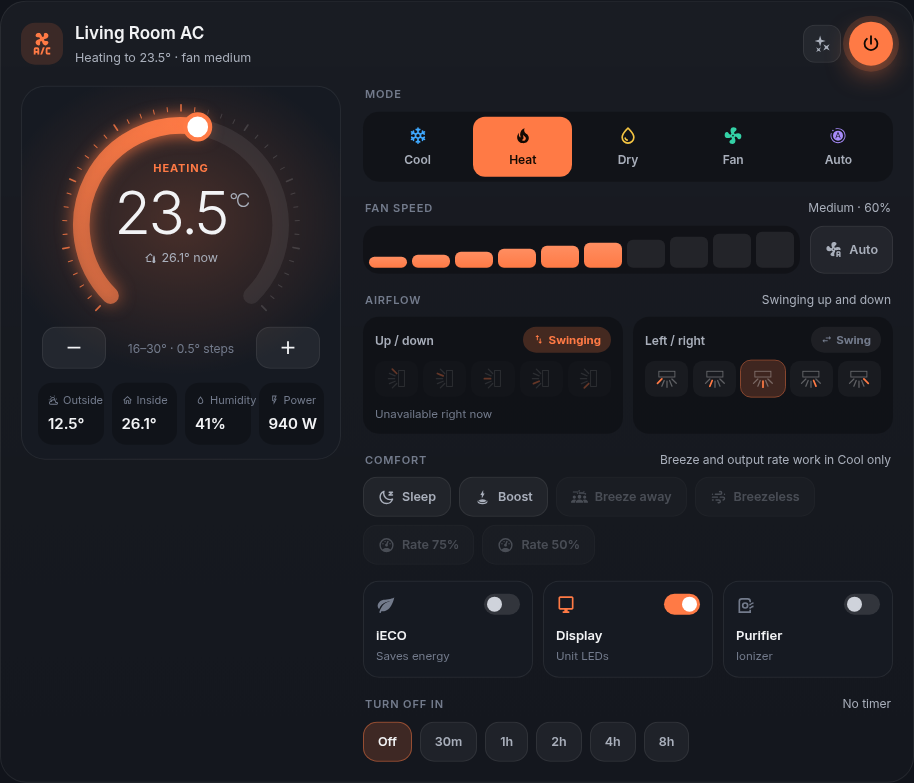
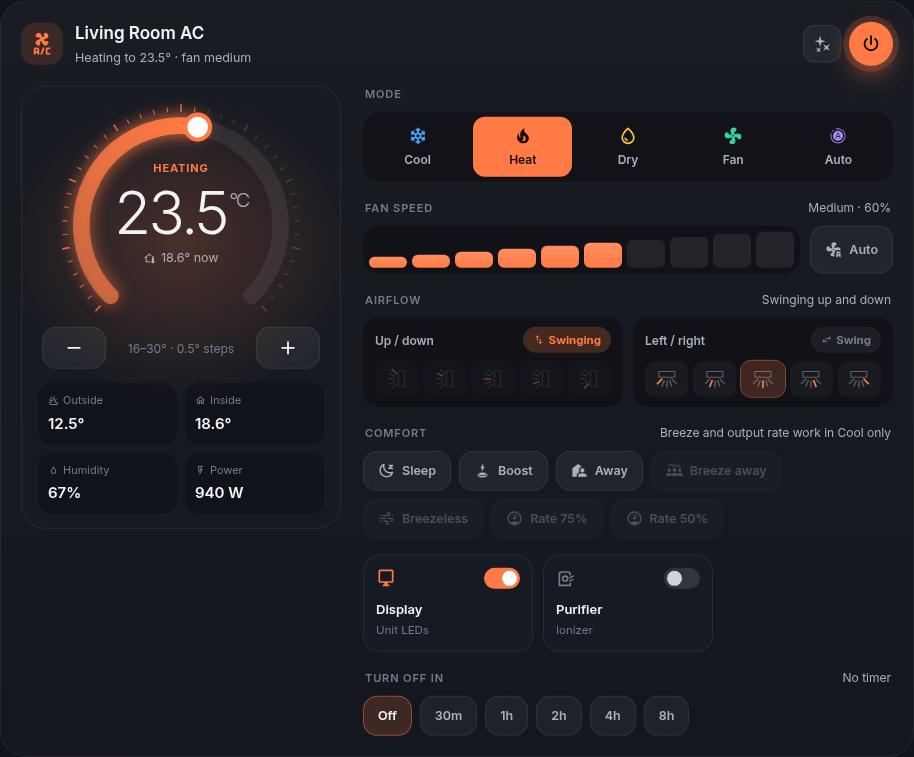
v3.1.0: open a reading's history when it is clicked; 2x2 tiles

diff --git a/midea-ac-card.js b/midea-ac-card.js
@@ -1,5 +1,5 @@
 // =============================================================================
-// Midea AC Control Card  v3.0.1
+// Midea AC Control Card  v3.1.0
 // Dark "Home" design: dial, mode, fan, airflow and comfort controls on one page.
 //
 // Install via HACS (search "Midea AC Card") or manually:
@@ -17,6 +17,7 @@
 //
 // Override any individual entity if its name differs (or set to null to disable):
 //   indoor_temp:   sensor.living_room_ac_indoor_temperature   # auto-derived
+//   indoor_humidity: sensor.living_room_ac_indoor_humidity    # auto-derived
 //   outdoor_temp:  sensor.living_room_ac_outdoor_temperature  # auto-derived
 //   power:         sensor.living_room_ac_power                # auto-derived
 //   fan_speed:     number.living_room_ac_fan_speed            # auto-derived
@@ -302,6 +303,7 @@ function deriveEntities(cfg) {
 
   const defaults = {
     indoor_temp:       `sensor.${n}_indoor_temperature`,
+    indoor_humidity:   `sensor.${n}_indoor_humidity`,
     outdoor_temp:      `sensor.${n}_outdoor_temperature`,
     power:             `sensor.${n}_power`,
     fan_speed:         `number.${n}_fan_speed`,
@@ -365,7 +367,7 @@ function deriveEntities(cfg) {
 }
 
 
-const VERSION = '3.0.1';
+const VERSION = '3.1.0';
 
 // Dial geometry (viewBox 260×206): a 270° arc open at the bottom.
 const DIAL = { CX: 130, CY: 118, R: 96, START: 225, SWEEP: 270, W: 260, H: 206, TICKS: 40 };
@@ -412,6 +414,8 @@ function loadFont() {
 
 const fmtT = v => (Math.round(v * 10) / 10).toFixed(1);
 const ico = (name) => `<ha-icon icon="${name}"></ha-icon>`;
+// Attributes that make a read-only value open HA's more-info dialog (history) for its entity.
+const mi = (id) => id ? ` data-more-info="${id}" role="button" tabindex="0"` : '';
 
 // ── Card class ────────────────────────────────────────────────────────────────
 class AcCard extends HTMLElement {
@@ -465,6 +469,7 @@ class AcCard extends HTMLElement {
     if (!this.shadowRoot) this.attachShadow({ mode: 'open' });
     this.shadowRoot.addEventListener('click', e => this._onClick(e));
     this.shadowRoot.addEventListener('input', e => this._onInput(e));
+    this.shadowRoot.addEventListener('keydown', e => this._onKeyDown(e));
     // <details> toggle does not bubble; capture it to remember open sections.
     this.shadowRoot.addEventListener('toggle', e => {
       const k = e.target?.dataset?.k;
@@ -556,9 +561,20 @@ ha-icon { --mdc-icon-size: 1em; display: inline-flex; }
 .step:hover { background: rgba(255,255,255,.1); }
 .steps span { font-size: 12px; color: var(--text3); }
 .stats { display: grid; grid-template-columns: repeat(auto-fit, minmax(0, 1fr)); gap: 8px; margin-top: 14px; }
+.stats.n4 { grid-template-columns: repeat(2, minmax(0, 1fr)); }
 .stat { border-radius: 14px; background: rgba(0,0,0,.25); padding: 9px 10px; min-width: 0; }
 .stat span { font-size: 11px; color: var(--text3); display: flex; gap: 4px; align-items: center; white-space: nowrap; }
 .stat b { display: block; font-size: 15px; font-weight: 600; margin-top: 2px; white-space: nowrap; }
+
+/* read-only values that open the entity's history (more-info) */
+[data-more-info] { cursor: pointer; transition: background .15s, color .15s; }
+[data-more-info]:focus { outline: none; }
+[data-more-info]:focus-visible { outline: 2px solid color-mix(in srgb, var(--mc) 60%, transparent); outline-offset: 1px; }
+[data-more-info]:hover, [data-more-info]:focus-visible { background: rgba(255,255,255,.06); color: var(--text); border-radius: 8px; }
+.stat[data-more-info]:hover, .stat[data-more-info]:focus-visible { background: rgba(255,255,255,.05); border-radius: 14px; }
+.dial .now[data-more-info] { pointer-events: auto; padding: 0 6px; margin-left: -6px; margin-right: -6px; }
+.note [data-more-info] { padding: 0 3px; margin: 0 -3px; }
+.offhero .big[data-more-info]:hover, .offhero .big[data-more-info]:focus-visible { border-radius: 14px; }
 
 /* segmented mode control */
 .seg { display: grid; grid-auto-flow: column; grid-auto-columns: 1fr; gap: 6px; background: rgba(0,0,0,.28); padding: 5px; border-radius: 16px; }
@@ -714,13 +730,19 @@ details[open] summary .chev { transform: rotate(180deg); }
     const pUnit = pEnt?.attributes?.unit_of_measurement || 'W';
     const pow = pNum == null ? null : `${/^kw$/i.test(pUnit) ? pNum.toFixed(1) : Math.round(pNum)} ${pUnit}`;
     const cells = [
-      outT && ['mdi:weather-partly-cloudy', 'Outside', outT],
-      withInside && cur && ['mdi:home-outline', 'Inside', cur],
-      hum && ['mdi:water-outline', 'Humidity', hum],
-      pow && ['mdi:flash-outline', 'Power', pow],
+      outT && ['mdi:weather-partly-cloudy', 'Outside', outT, out.entity_id],
+      withInside && cur && ['mdi:home-outline', 'Inside', cur, this._insideId()],
+      hum && ['mdi:water-outline', 'Humidity', hum, this._entity('indoor_humidity')?.entity_id || cfg.entity],
+      pow && ['mdi:flash-outline', 'Power', pow, pEnt.entity_id],
     ].filter(Boolean);
     if (!cells.length) return '';
-    return `<div class="stats">${cells.map(([i, l, v]) => `<div class="stat"><span>${ico(i)}${l}</span><b>${v}</b></div>`).join('')}</div>`;
+    return `<div class="stats${cells.length === 4 ? ' n4' : ''}">${cells.map(([i, l, v, id]) => `<div class="stat"${mi(id)}><span>${ico(i)}${l}</span><b>${v}</b></div>`).join('')}</div>`;
+  }
+
+  // The room temperature and humidity shown come from the climate entity; their
+  // history lives on the indoor sensors when those exist.
+  _insideId() {
+    return this._entity('indoor_temp')?.entity_id || this._config.entity;
   }
 
   _dialSvg(temp, minT, maxT, mc) {
@@ -762,7 +784,7 @@ details[open] summary .chev { transform: rotate(180deg); }
         <div class="ctr">
           <div class="act">${act}</div>
           <div class="set"><span id="arc-temp-val">${fmtT(target)}</span><sup>°C</sup></div>
-          ${cur ? `<div class="now">${ico('mdi:home-thermometer-outline')} ${cur}</div>` : ''}
+          ${cur ? `<div class="now"${mi(this._insideId())}>${ico('mdi:home-thermometer-outline')} ${cur}</div>` : ''}
         </div>
       </div>
       <div class="steps">
@@ -799,7 +821,7 @@ details[open] summary .chev { transform: rotate(180deg); }
     <div class="left">
       <div class="offhero">
         <div class="label">Room now</div>
-        <div class="big">${cur}<sup>°C</sup></div>
+        <div class="big"${attrs.current_temperature != null ? mi(this._insideId()) : ''}>${cur}<sup>°C</sup></div>
         ${target ? `<p>${target}</p>` : ''}
         ${this._statsHtml(attrs, false)}
       </div>
@@ -834,6 +856,10 @@ details[open] summary .chev { transform: rotate(180deg); }
     const i = named.indexOf(attrs.fan_mode);
     return i < 0 ? 0 : Math.round((i + 1) / named.length * 100);
   }
+  _fanSpeedLive() {
+    const fs = this._entity('fan_speed');
+    return !!fs && !isUnavail(fs) && this._hass.states[this._config.entity]?.attributes?.fan_mode !== 'auto';
+  }
   _fanLabel(attrs, pct) {
     if (attrs.fan_mode === 'auto') return 'Auto';
     const fs = this._entity('fan_speed');
@@ -849,7 +875,7 @@ details[open] summary .chev { transform: rotate(180deg); }
     const auto = attrs.fan_mode === 'auto';
     const pct = auto ? 0 : this._fanPct(attrs);
     const hasAuto = (attrs.fan_modes || []).includes('auto');
-    return `<div class="blk"><div class="bh"><span class="label">Fan speed</span><small id="fan-lbl">${this._fanLabel(attrs, pct)}${auto ? ' · tap the bars to set a speed' : ''}</small></div>
+    return `<div class="blk"><div class="bh"><span class="label">Fan speed</span><small id="fan-lbl"${this._fanSpeedLive() ? mi(this._config.fan_speed) : ''}>${this._fanLabel(attrs, pct)}${auto ? ' · tap the bars to set a speed' : ''}</small></div>
       <div class="fan">
         <div class="bars${auto ? ' auto' : ''}" data-drag>${this._barsHtml(pct)}</div>
         ${hasAuto ? `<button class="chipbtn${auto ? ' on' : ''}" data-action="toggle-fan-auto">${ico('mdi:fan-auto')}Auto</button>` : ''}
@@ -892,7 +918,8 @@ details[open] summary .chev { transform: rotate(180deg); }
       : sm === 'horizontal' ? 'Swinging left and right'
       : 'Tap a position again to release it';
     const hNow = this._fmtSensor('louvers_h_angle'), vNow = this._fmtSensor('louvers_v_angle');
-    const actual = (hNow || vNow) ? `<p class="note">Louvers now:${vNow ? ` ↕ ${vNow}` : ''}${hNow ? ` ↔ ${hNow}` : ''}</p>` : '';
+    const cfg = this._config;
+    const actual = (hNow || vNow) ? `<p class="note">Louvers now:${vNow ? ` <span${mi(cfg.louvers_v_angle)}>↕ ${vNow}</span>` : ''}${hNow ? ` <span${mi(cfg.louvers_h_angle)}>↔ ${hNow}</span>` : ''}</p>` : '';
     return `<div class="blk"><div class="bh"><span class="label">Airflow</span><small>${desc}</small></div>
       <div class="air">${group('v')}${group('h')}</div>${actual}</div>`;
   }
@@ -968,7 +995,7 @@ details[open] summary .chev { transform: rotate(180deg); }
     }).join('');
     const label = acOff ? 'Turn on in' : 'Turn off in';
     const now = cur > 0 ? `${acOff ? 'Turns on' : 'Turns off'} in ${fmtDuration(cur)}` : 'No timer';
-    return `<div class="blk"><div class="bh"><span class="label">${label}</span><small>${now}</small></div><div class="chips">${chips}</div></div>`;
+    return `<div class="blk"><div class="bh"><span class="label">${label}</span><small${cur > 0 ? mi(ent.entity_id) : ''}>${now}</small></div><div class="chips">${chips}</div></div>`;
   }
 
   _extrasHtml() {
@@ -985,7 +1012,7 @@ details[open] summary .chev { transform: rotate(180deg); }
     if (sp) {
       const un = isUnavail(sp), faOn = this._entity('fresh_air')?.state === 'on';
       const v = un ? 50 : Math.min(Math.round(+sp.state), 100);
-      parts.push(`<label class="range">Fresh air speed <input type="range" id="fresh-air-slider" min="${sp.attributes?.min ?? 1}" max="${sp.attributes?.max ?? 100}" value="${v}" ${un || !faOn ? 'disabled' : ''}><b id="fresh-air-val">${un ? '—' : v + '%'}</b></label>`);
+      parts.push(`<label class="range">Fresh air speed <input type="range" id="fresh-air-slider" min="${sp.attributes?.min ?? 1}" max="${sp.attributes?.max ?? 100}" value="${v}" ${un || !faOn ? 'disabled' : ''}><b id="fresh-air-val"${mi(sp.entity_id)}>${un ? '—' : v + '%'}</b></label>`);
     }
     const cm = this._entity('cosy_sleep_mode');
     if (cm) {
@@ -1007,7 +1034,7 @@ details[open] summary .chev { transform: rotate(180deg); }
     const summary = [this._fmtSensor('outdoor_unit_power'), this._fmtSensor('compressor_frequency')].filter(Boolean).join(' · ');
     const secs = DIAG_SECTIONS.map(sec => {
       const rows = sec.rows.filter(r => this._present(r.key))
-        .map(r => `<div><span>${r.name}</span><b>${this._fmtSensor(r.key) ?? '—'}</b></div>`).join('');
+        .map(r => `<div${mi(this._config[r.key])}><span>${r.name}</span><b>${this._fmtSensor(r.key) ?? '—'}</b></div>`).join('');
       return rows ? `<div class="label" style="margin:4px 0 0 2px">${sec.title}</div><div class="diag">${rows}</div>` : '';
     }).join('');
     return `<details data-k="diag" ${this._open.has('diag') ? 'open' : ''}>
@@ -1148,8 +1175,14 @@ details[open] summary .chev { transform: rotate(180deg); }
 
   // ── Click handling ────────────────────────────────────────────────────────
   _onClick(e) {
-    const el = e.composedPath().find(n => n instanceof Element && n.dataset?.action);
-    if (!el || el.disabled) return;
+    const path = e.composedPath();
+    const el = path.find(n => n instanceof Element && n.dataset?.action);
+    if (!el) {
+      const info = path.find(n => n instanceof Element && n.dataset?.moreInfo);
+      if (info) { e.preventDefault(); this._moreInfo(info.dataset.moreInfo); }
+      return;
+    }
+    if (el.disabled) return;
     const action = el.dataset.action, val = el.dataset.val, eid = el.dataset.entity;
     const { _hass: hass, _config: cfg } = this;
     const climate = hass.states[cfg.entity];
@@ -1252,6 +1285,18 @@ details[open] summary .chev { transform: rotate(180deg); }
     this._fanTimer = setTimeout(() => {
       this._call('number', 'set_value', { entity_id: this._config.fresh_air_fan_speed, value: +v });
     }, 400);
+  }
+
+  _onKeyDown(e) {
+    if (e.key !== 'Enter' && e.key !== ' ') return;
+    const id = e.target?.dataset?.moreInfo;
+    if (!id) return;
+    e.preventDefault();
+    this._moreInfo(id);
+  }
+
+  _moreInfo(entityId) {
+    this.dispatchEvent(new CustomEvent('hass-more-info', { bubbles: true, composed: true, detail: { entityId } }));
   }
 
   _call(domain, service, data) {

diff --git a/README.md b/README.md
@@ -38,12 +38,16 @@ Key features at a glance:
 ## Credits
 
 Author: [gil](https://github.com/condegil) — 2026  
-Version: 3.0.0
+Version: 3.1.0
 
 ## Changelog
 
 <details>
 <summary>Versions</summary>
+
+**3.1.0**
+- Readings open their history: tap (or Enter/Space) any read-only value to open Home Assistant's more-info dialog for the entity behind it. Covers the outside / inside / humidity / power tiles (the Humidity tile uses the new auto-derived `indoor_humidity` sensor when it exists), the room temperature under the dial and on the off screen, the fan-speed %, the actual louver angles, the running timer, the fresh-air speed and every Diagnostics row. Controls keep their normal behaviour.
+- With all four tiles (outside, inside, humidity, power) they sit in a 2 × 2 grid instead of one tight row.
 
 **3.0.1**
 - Fixed: on a narrow card the header buttons no longer get squashed. The filter and tank alerts shrink to their icons so the name keeps its room.
@@ -110,6 +114,7 @@ All companion entity IDs are auto-derived from the climate entity name (see [Aut
 | --------------- | -------- | ------- | --------------------------------------------------------------- |
 | `entity`        | ✅       | —       | Main `climate.*` entity                                         |
 | `indoor_temp`   | ☑        | auto    | `sensor.*` for indoor temperature                               |
+| `indoor_humidity` | ☑      | auto    | `sensor.*` for indoor humidity (history for the Humidity tile)  |
 | `outdoor_temp`  | ☑        | auto    | `sensor.*` for outdoor temperature                              |
 | `fan_speed`     | ☑        | auto    | `number.*` for fan speed percentage (0–100 %)                   |
 | `display`       | ☑        | auto    | `switch.*` for LED display on/off                               |
@@ -137,6 +142,7 @@ entity: climate.living_room_ac
 type: custom:midea-ac-card
 entity: climate.living_room_ac
 indoor_temp: sensor.living_room_ac_indoor_temperature
+indoor_humidity: sensor.living_room_ac_indoor_humidity
 outdoor_temp: sensor.living_room_ac_outdoor_temperature
 fan_speed: number.living_room_ac_fan_speed
 display: switch.living_room_ac_display
@@ -170,6 +176,7 @@ For `entity: climate.living_room_ac` the derived IDs are:
 | Key                 | Derived entity ID                              |
 | ------------------- | ---------------------------------------------- |
 | `indoor_temp`       | `sensor.living_room_ac_indoor_temperature`     |
+| `indoor_humidity`   | `sensor.living_room_ac_indoor_humidity`        |
 | `outdoor_temp`      | `sensor.living_room_ac_outdoor_temperature`    |
 | `fan_speed`         | `number.living_room_ac_fan_speed`              |
 | `display`           | `switch.living_room_ac_display`                |
